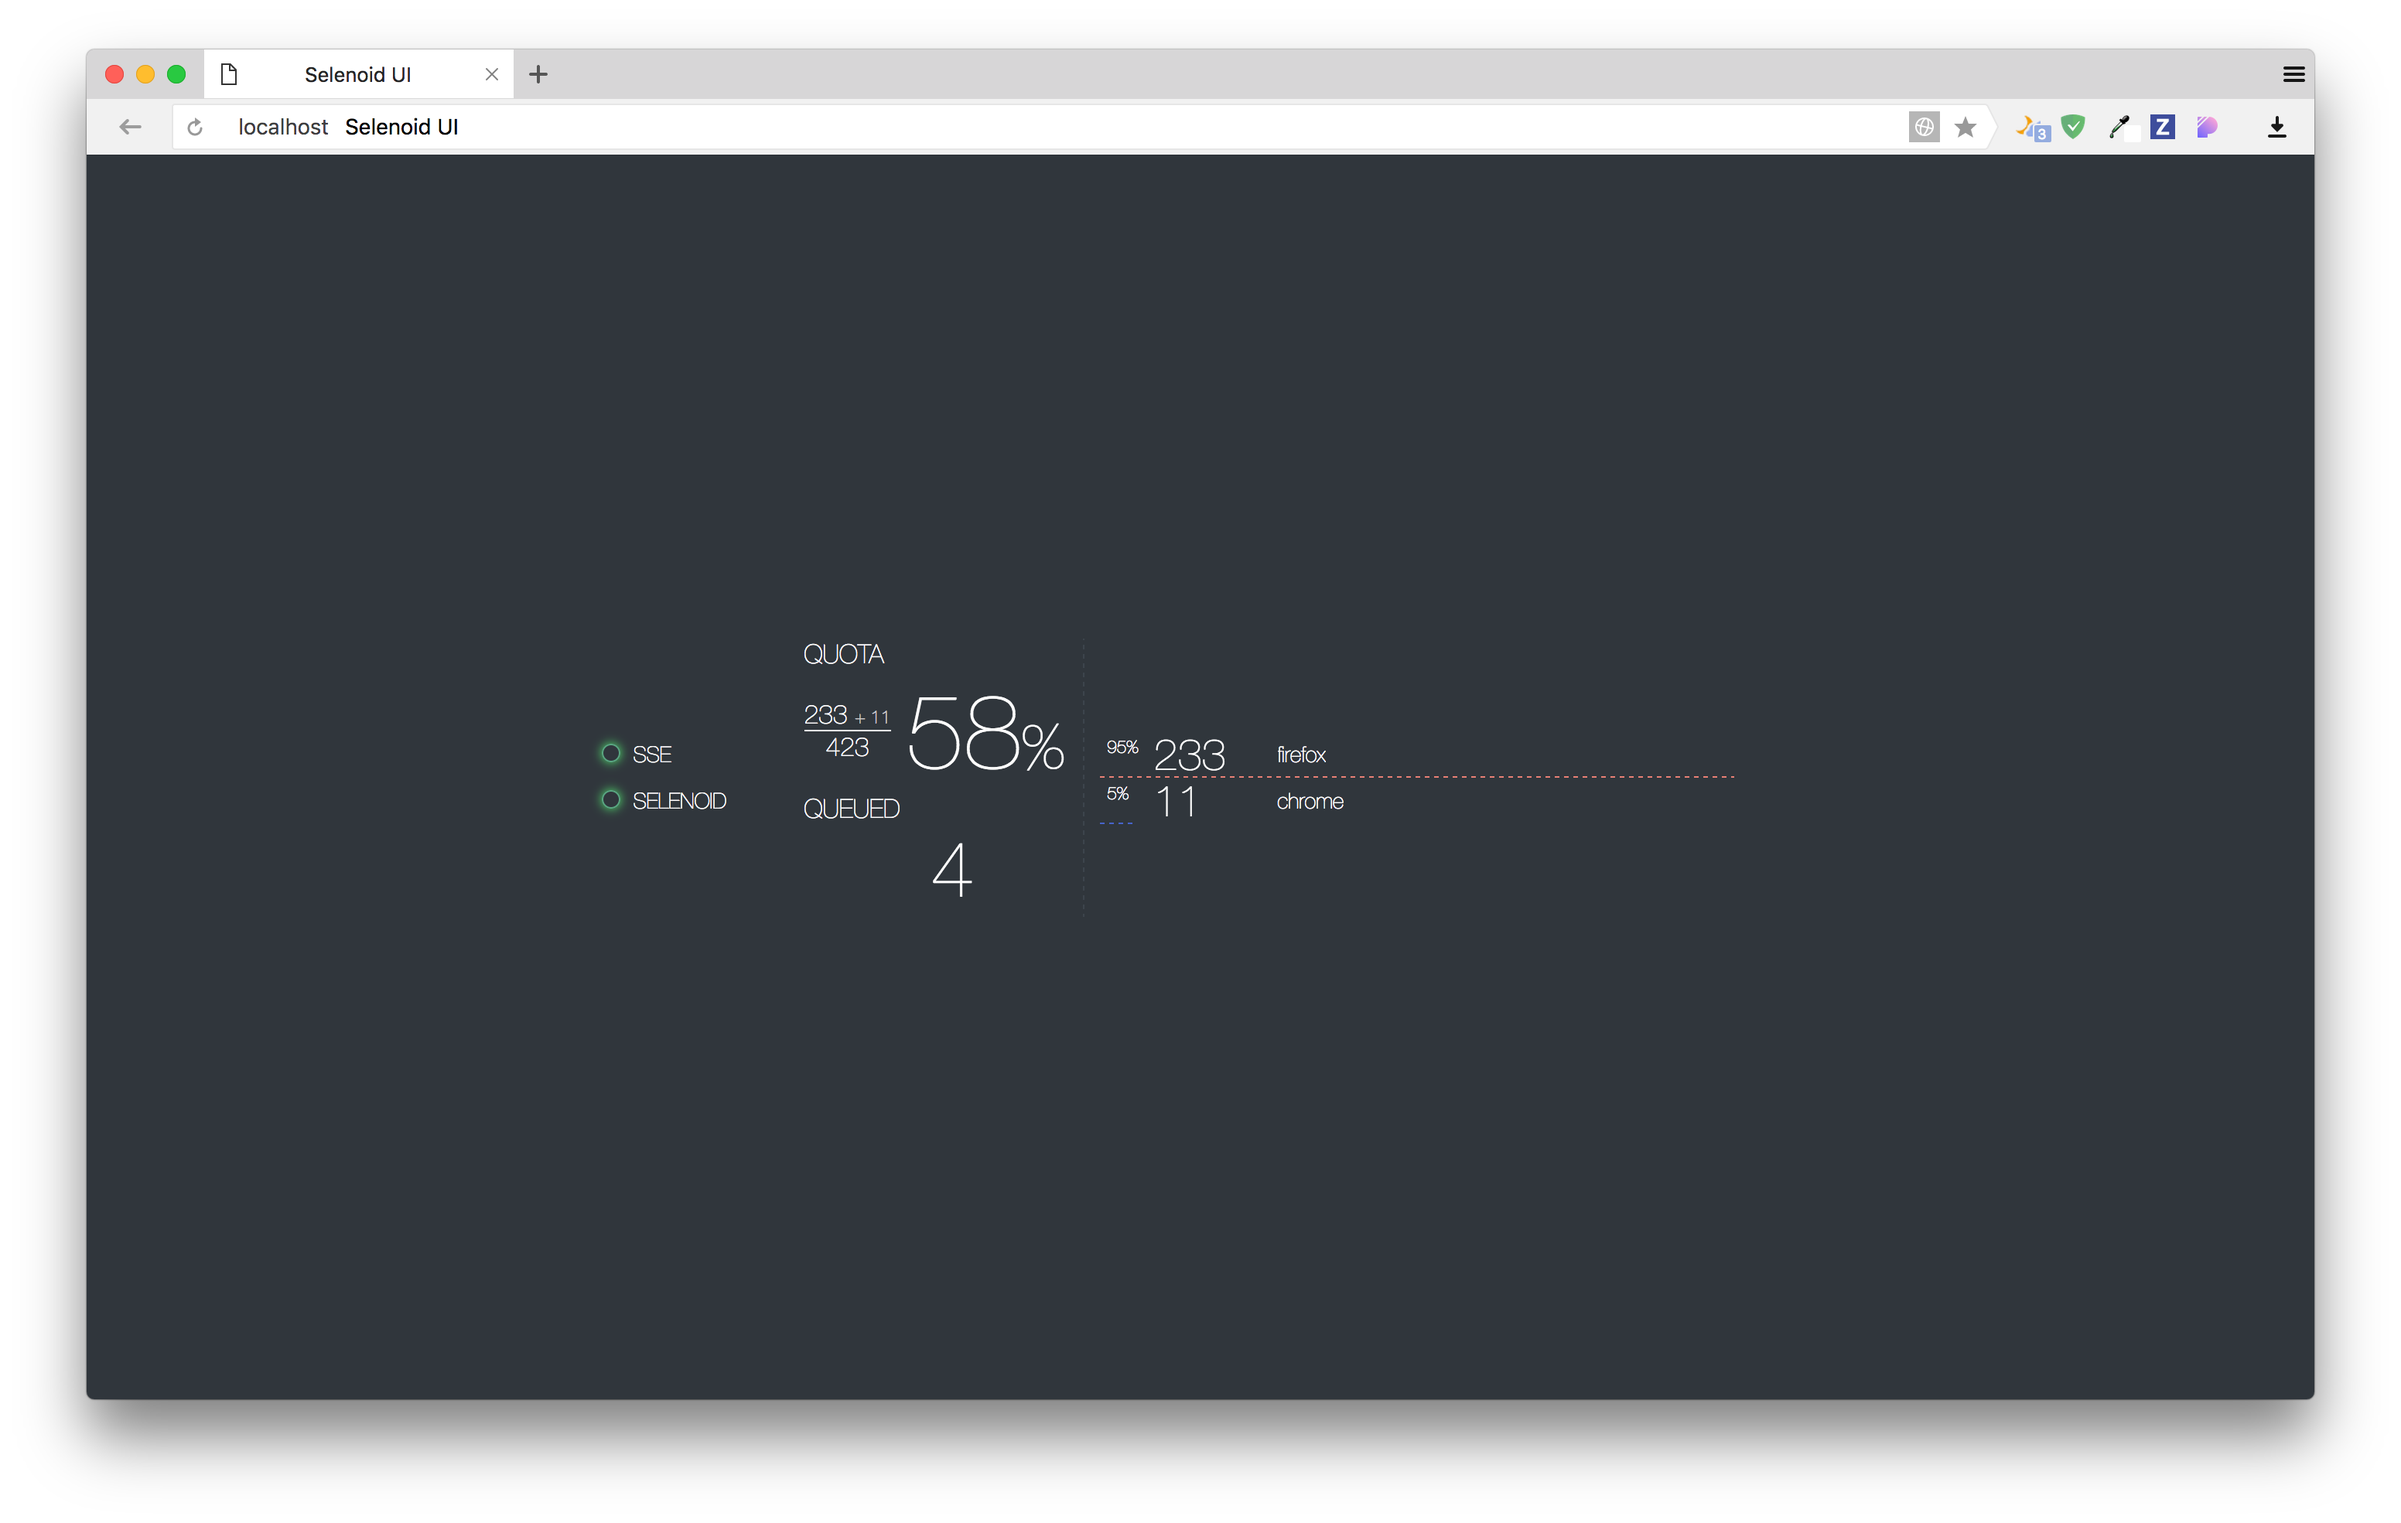
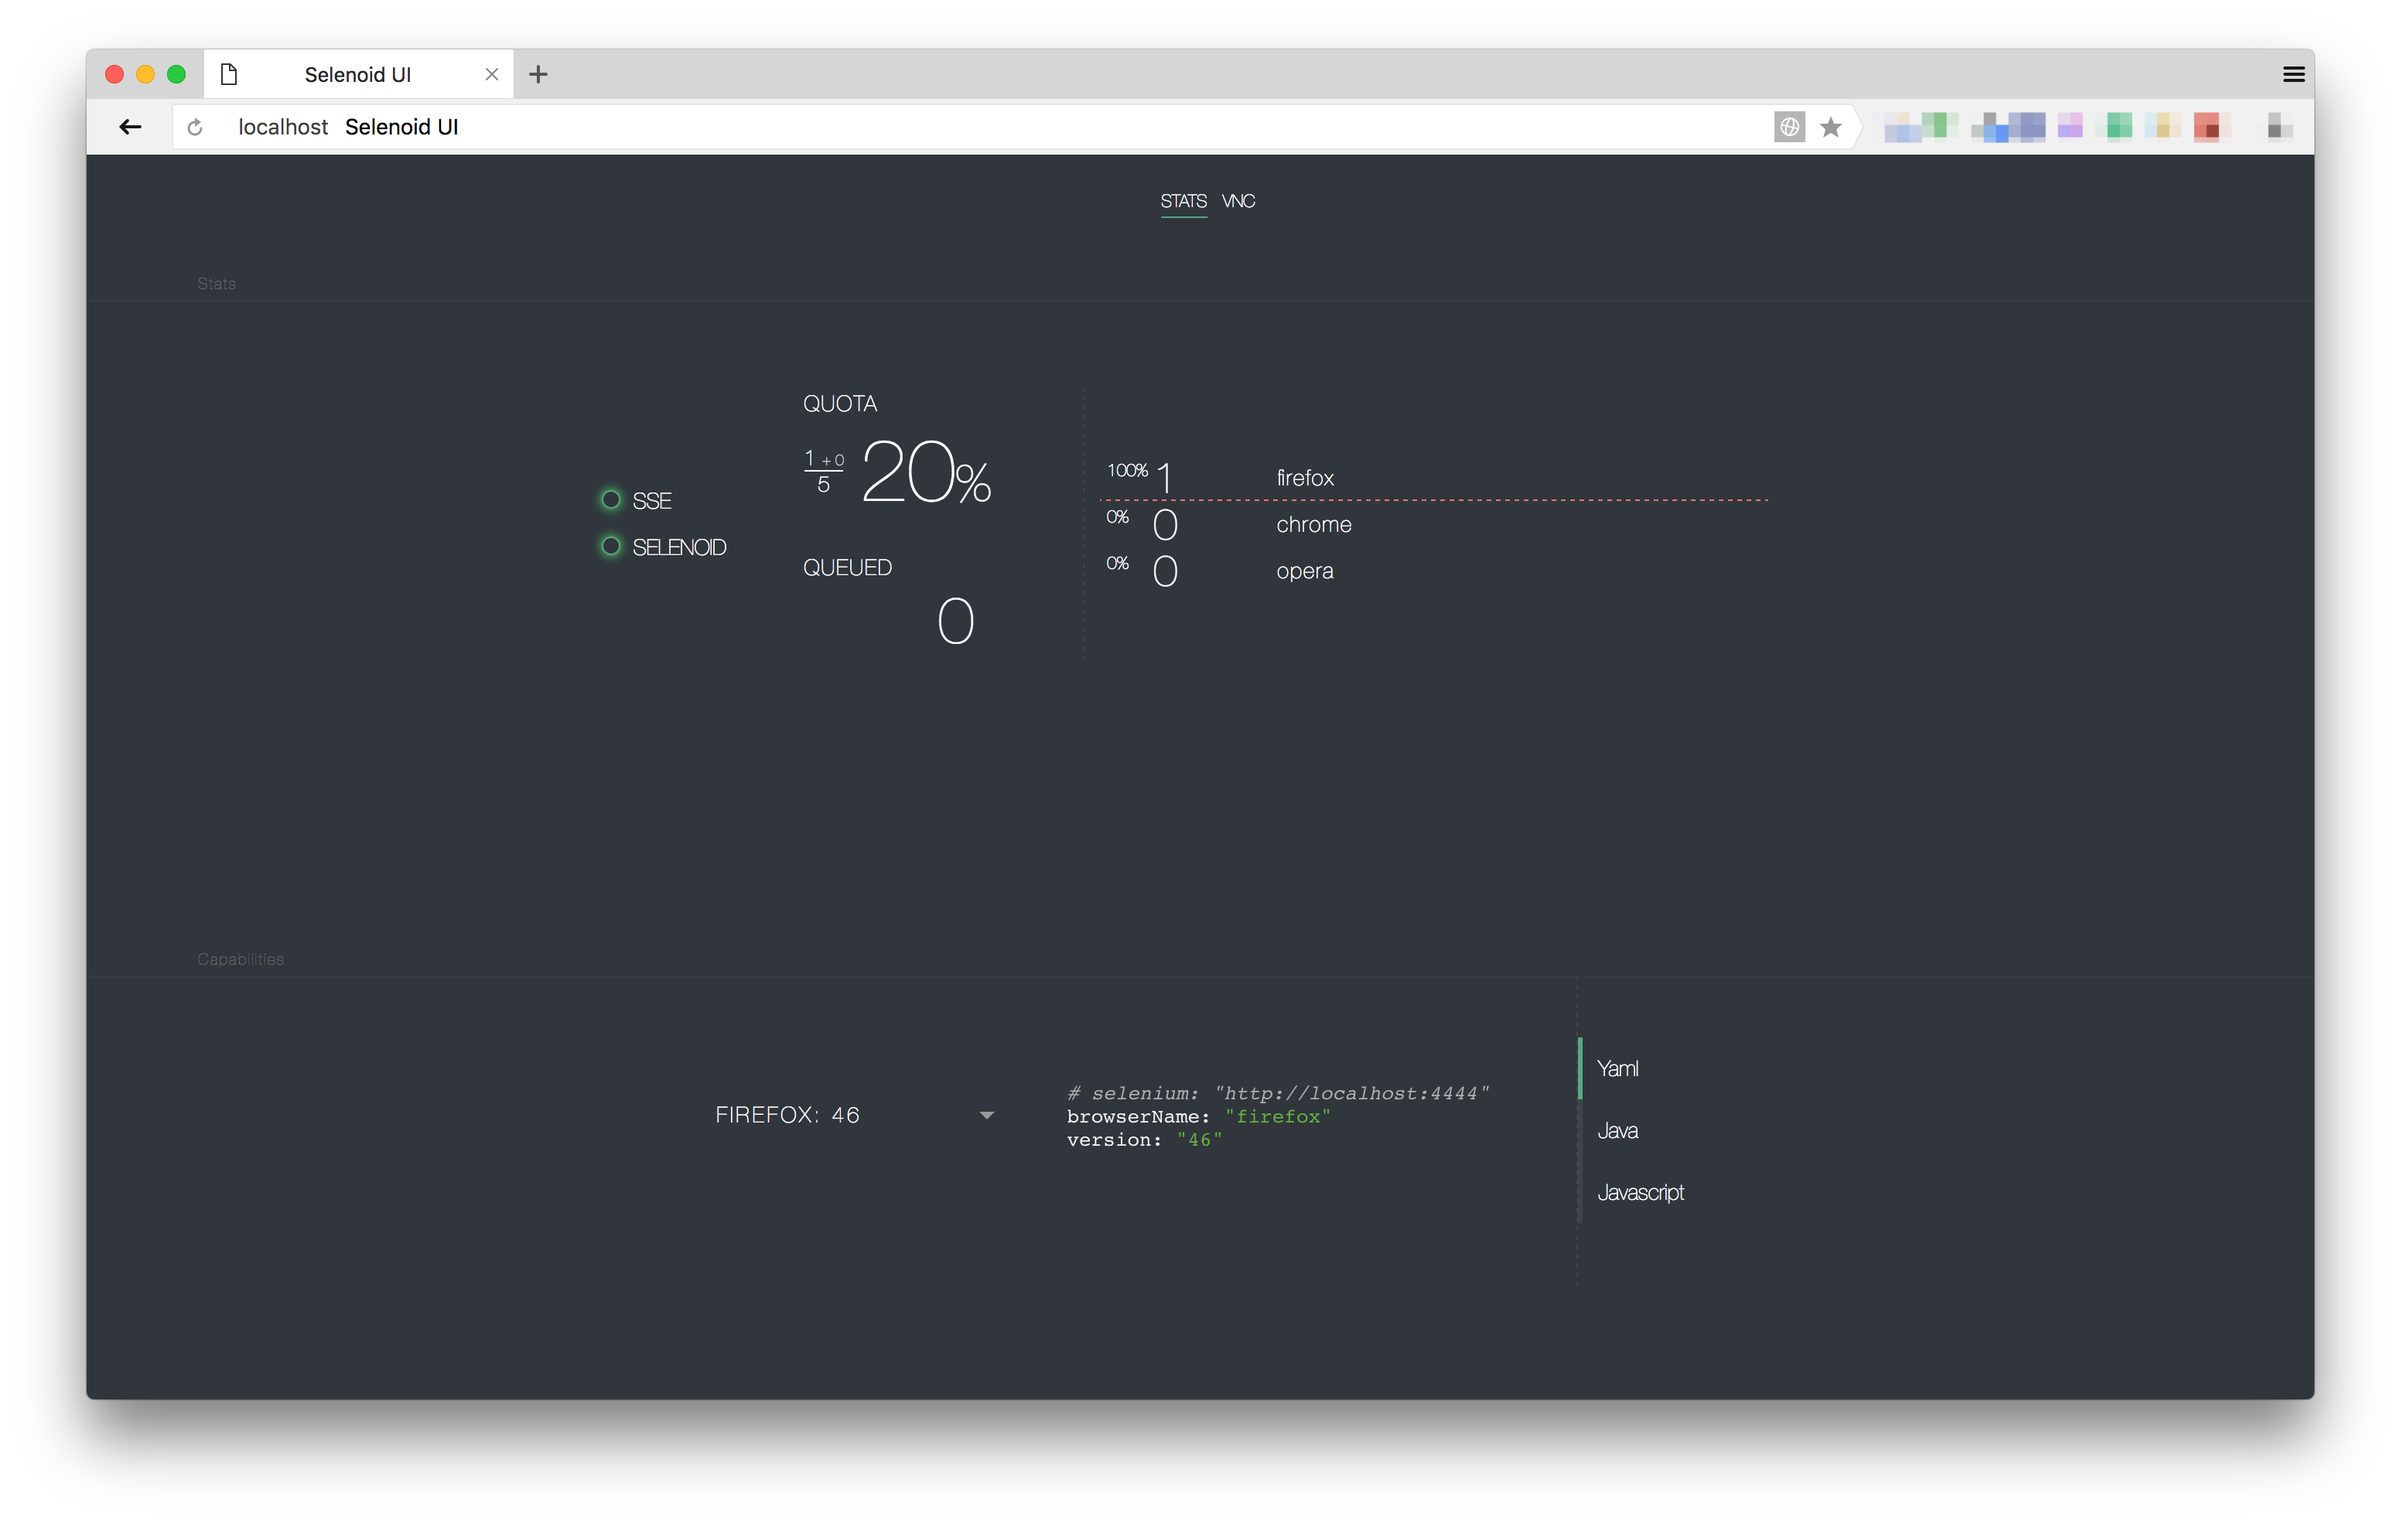
capabilities helper

diff --git a/web/src/containers/Capabilities/index.js b/web/src/containers/Capabilities/index.js
@@ -1,0 +1,110 @@
+import React, {Component} from "react";
+import PropTypes from "prop-types";
+
+import Highlight from "react-highlight";
+import "highlight.js/styles/sunburst.css";
+
+import Select from "react-select";
+import "react-select/dist/react-select.css";
+
+import "./select.scss";
+import "./style.scss";
+
+
+const code = (browser, version, origin) => {
+    return {
+        yaml: `# selenium: "${origin || 'http://selenoid-uri:4444/wd/hub'}"
+browserName: "${browser}"
+version: "${version}"
+`,
+        java: `DesiredCapabilities browser = new DesiredCapabilities();
+browser.setBrowserName("${browser}");
+browser.setVersion("${version}");
+RemoteWebDriver driver = new RemoteWebDriver(
+    URI.create("${origin}/wd/hub").toURL(), 
+    browser
+);
+`,
+        javascript: `var webdriverio = require('webdriverio');
+var options = { 
+    desiredCapabilities: { 
+        browserName: '${browser}', 
+        version: '${version}' 
+    } 
+};
+var client = webdriverio.remote(options);
+`
+    }
+};
+
+export default class Capabilities extends Component {
+    static propTypes = {
+        state: PropTypes.object,
+        origin: PropTypes.string
+    };
+
+    onBrowserChange = (browser) => {
+        this.setState({browser})
+    };
+
+    onLanguageChange = (lang) => {
+        this.setState({lang})
+    };
+
+    render() {
+        const {state = {browsers: {}}, origin} = this.props;
+        const {browser = {}, lang = 'yaml'} = this.state || {};
+        const browsers = [].concat(...Object.keys(state.browsers)
+            .map(name => Object.keys(state.browsers[name])
+                .map(version => {
+                    return {
+                        value: `${name}_${version}`,
+                        label: `${name}: ${version}`,
+                        name,
+                        version
+                    }
+                })));
+
+        const {name, version, value} = browser || {};
+
+        return (
+            <div className="capabilities">
+                <div className="capabilities__section-title">
+                    Capabilities
+                </div>
+                <div className="capabilities__setup">
+                    <Select
+                        className="capabilities-browser-select"
+                        name="browsers"
+                        value={value}
+                        options={browsers}
+                        onChange={this.onBrowserChange}
+                        placeholder="Select browser..."
+                        isLoading={!origin}
+                        clearable={false}
+                        noResultsText="No information about browsers"
+                    />
+                </div>
+                <Highlight className={lang}>
+                    {code(name, version, origin)[lang]}
+                </Highlight>
+
+                <div className="capabilities__lang-selector">
+                    <div className="capabilities-langs">
+                        {
+                            ['yaml', 'java', 'javascript']
+                                .map(next =>
+                                    <div key={next}
+                                         className={`capabilities-lang ${next === lang && 'capabilities-lang_active'}`}
+                                         onClick={() => this.onLanguageChange(next)}>
+                                        {next}
+                                    </div>
+                                )
+                        }
+                    </div>
+                </div>
+
+            </div>
+        );
+    }
+}

diff --git a/web/src/containers/Capabilities/style.scss b/web/src/containers/Capabilities/style.scss
@@ -1,0 +1,67 @@
+$border-langs-color: #3d444c;
+$border-section-color: #353b42;
+$selected-color: #59a781;
+
+.capabilities {
+  width: 100%;
+  display: flex;
+  flex-wrap: wrap;
+  justify-content: center;
+  align-items: center;
+  position: relative;
+
+  &__section-title {
+    color: #666;
+    position: absolute;
+    top: 0;
+    left: 0;
+    padding-left: 5%;
+    border-bottom: 1px solid $border-section-color;
+    width: 95%;
+    letter-spacing: 1px;
+    font-size: 10px;
+    line-height: 20px;
+  }
+
+  &__setup {
+    width: 200px;
+    margin-right: 30px;
+  }
+
+  &__lang-selector {
+    height: 200px;
+    margin-left: 50px;
+    margin-top: 20px;
+  }
+
+}
+
+pre.hljs, code.hljs {
+  font-family: monospace, sans-serif;
+  font-size: 13px;
+  -webkit-font-smoothing: antialiased;
+  background: inherit;
+}
+
+.capabilities-langs {
+  border-left: 1px dashed $border-langs-color;
+  width: 100%;
+  height: 100%;
+  display: flex;
+  flex-direction: column;
+  justify-content: center;
+}
+
+.capabilities-lang {
+  color: #fff;
+  padding: 10px;
+  text-transform: capitalize;
+  line-height: 20px;
+  border-left: 3px solid $border-langs-color;
+  cursor: pointer;
+  transition: border-color 0.2s ease-out 0s;
+
+  &_active {
+    border-left-color: $selected-color;
+  }
+}

diff --git a/web/src/containers/Capabilities/select.scss b/web/src/containers/Capabilities/select.scss
@@ -1,0 +1,57 @@
+$selected-color: #59a781;
+
+.capabilities__setup {
+  .Select-control {
+    background-color: inherit;
+    border-radius: 0;
+    border: none;
+    color: #fff;
+    height: 30px;
+
+    &:hover {
+      box-shadow: none;
+    }
+
+    & .Select-input {
+      outline: none;
+
+      input {
+        color: #fff;
+      }
+    }
+  }
+
+  .has-value.Select--single > .Select-control .Select-value .Select-value-label,
+  .has-value.is-pseudo-focused.Select--single > .Select-control .Select-value .Select-value-label {
+    color: #fff;
+    text-transform: uppercase;
+    letter-spacing: 2px;
+  }
+
+  .Select-menu-outer {
+    border-bottom-right-radius: 0;
+    border-bottom-left-radius: 0;
+    background-color: inherit;
+    border: 0;
+    box-shadow: none;
+  }
+
+  .Select-option {
+    background-color: inherit;
+    color: #ccc;
+    text-transform: uppercase;
+  }
+  .Select-option:last-child {
+    border-bottom-right-radius: 0;
+    border-bottom-left-radius: 0;
+  }
+  .Select-option.is-selected {
+    background-color: inherit;
+    color: $selected-color;
+  }
+  .Select-option.is-focused {
+    background-color: inherit;
+    color: $selected-color;
+  }
+
+}

diff --git a/web/src/containers/Viewport/index.js b/web/src/containers/Viewport/index.js
@@ -9,6 +9,7 @@ import "./style.scss";
 
 import Navigation from "components/Navigation";
 import Stats from "containers/Stats";
+import Capabilities from "containers/Capabilities";
 import Vnc from "components/Vnc";
 import VncList from "components/VncList";
 
@@ -164,6 +165,10 @@ export default class Viewport extends Component {
                             state: state,
                             browsers: browsers
                         }}/>
+                    )}/>
+
+                    <Route exact={true} path="/" render={() => (
+                        <Capabilities state={state} origin={origin}/>
                     )}/>
 
                     <Route exact={true} path="/vnc/" render={() => (

diff --git a/web/src/containers/Stats/style.scss b/web/src/containers/Stats/style.scss
@@ -1,13 +1,32 @@
+$border-stats-color: #3d444c;
+$border-section-color: #353b42;
+
 .stats {
-  height: 100%;
+  height: 250px;
   width: 100%;
   display: flex;
   flex-wrap: wrap;
   justify-content: center;
   align-items: center;
+  position: relative;
+  padding-top: 40px;
+
+  &__section-title {
+    color: #666;
+    position: absolute;
+    top: 0;
+    left: 0;
+    padding-left: 5%;
+    border-bottom: 1px solid $border-section-color;
+    width: 95%;
+    letter-spacing: 1px;
+    font-size: 10px;
+    line-height: 20px;
+  }
+
 
   &__quota {
-    border-right: 1px dashed #3d444c;
+    border-right: 1px dashed $border-stats-color;
     margin-right: 10px;
   }
 }

diff --git a/web/src/containers/Stats/index.js b/web/src/containers/Stats/index.js
@@ -20,6 +20,10 @@ export default class Stats extends Component {
 
         return (
             <div className="stats">
+                <div className="stats__section-title">
+                    Stats
+                </div>
+
                 <div className="stats__status">
                     <Status status={sse} title="sse"/>
                     <Status status={status} title="selenoid"/>

diff --git a/web/src/components/Quota/style.scss b/web/src/components/Quota/style.scss
@@ -8,6 +8,7 @@
     width: 100%;
     line-height: 20px;
     height: 20px;
+    letter-spacing: 1px;
   }
 
   &-percents {

diff --git a/web/src/components/Queue/style.scss b/web/src/components/Queue/style.scss
@@ -9,6 +9,7 @@
     width: 100%;
     line-height: 20px;
     height: 20px;
+    letter-spacing: 1px;
   }
 
   &-queued {

diff --git a/web/src/components/Browsers/style.scss b/web/src/components/Browsers/style.scss
@@ -19,6 +19,7 @@
 
   &__name {
     overflow: hidden;
+    letter-spacing: 1px;
   }
 
   &__count {
